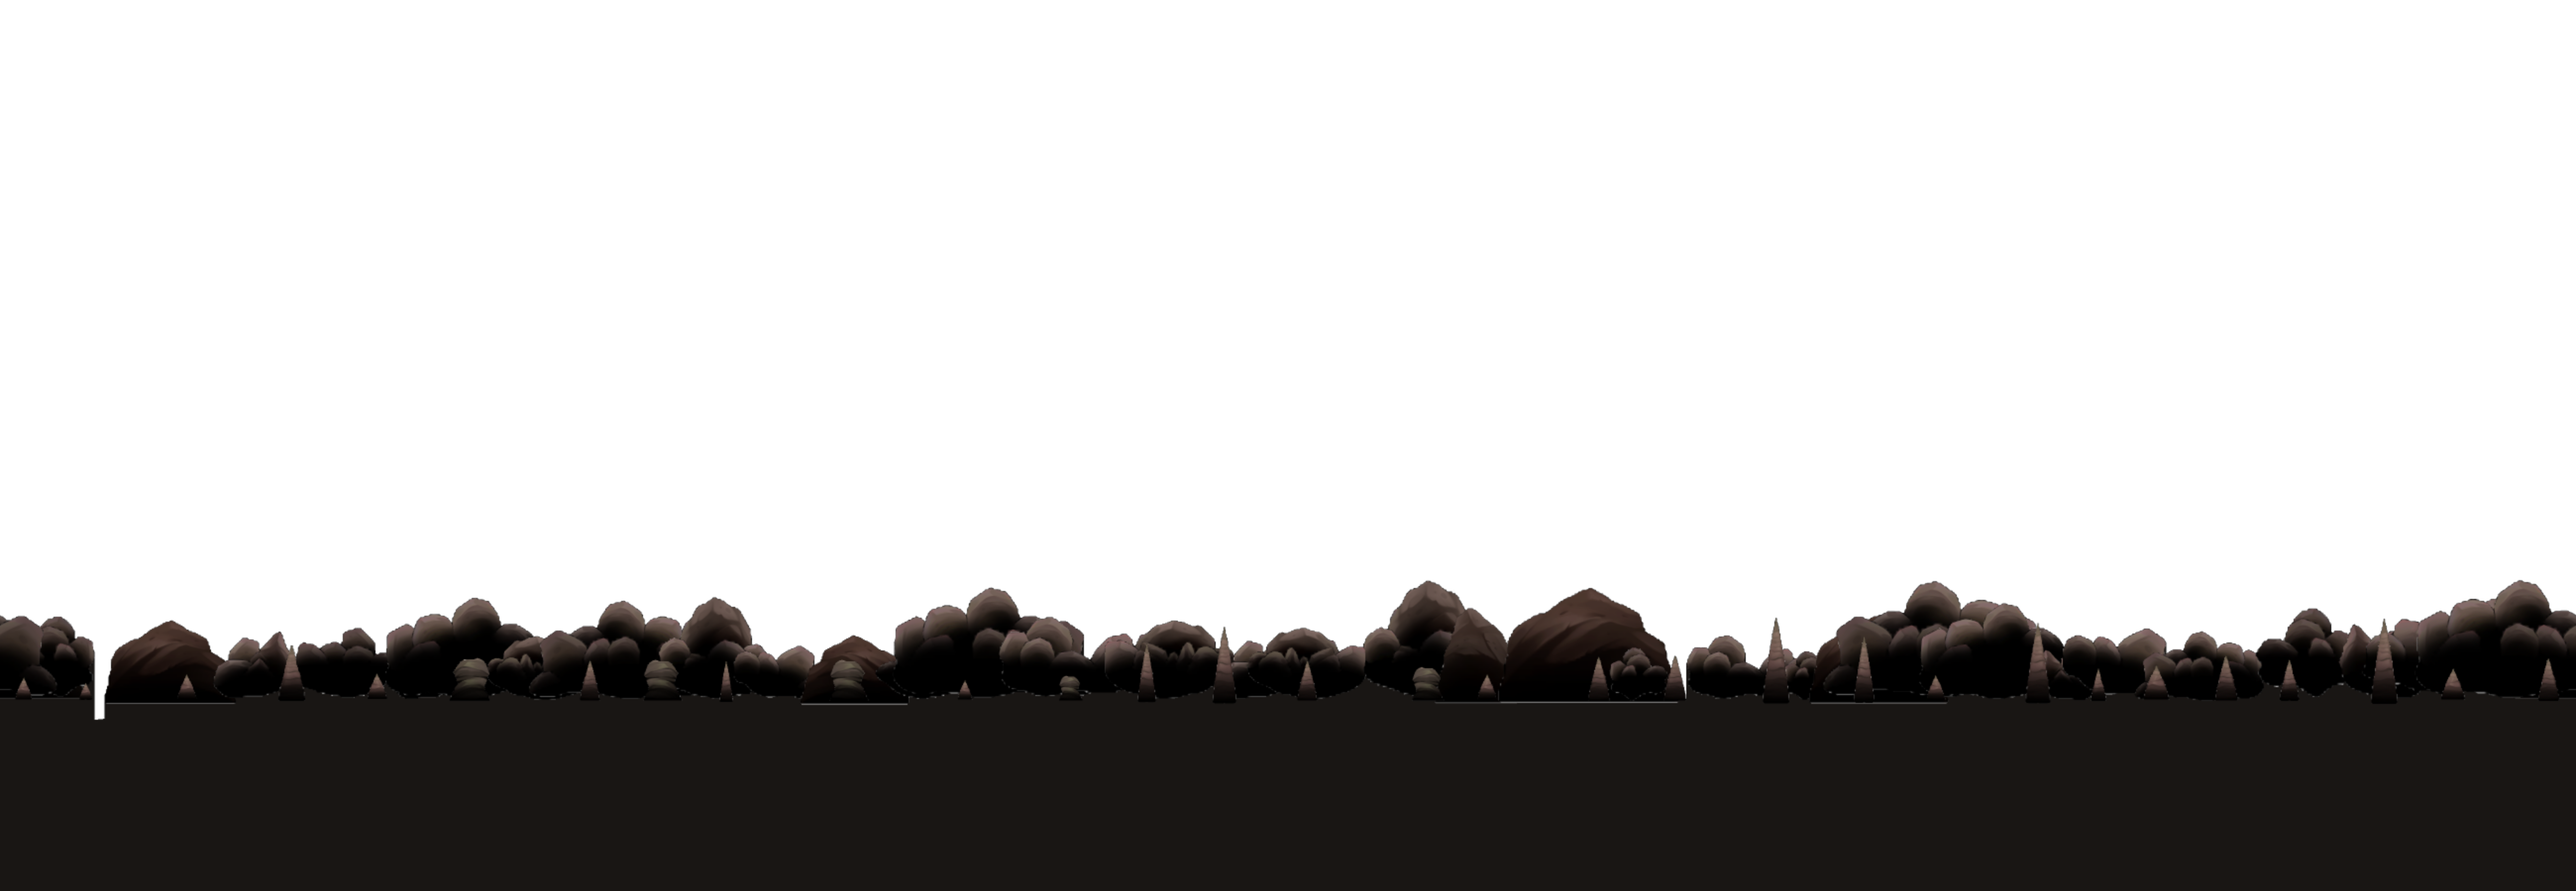
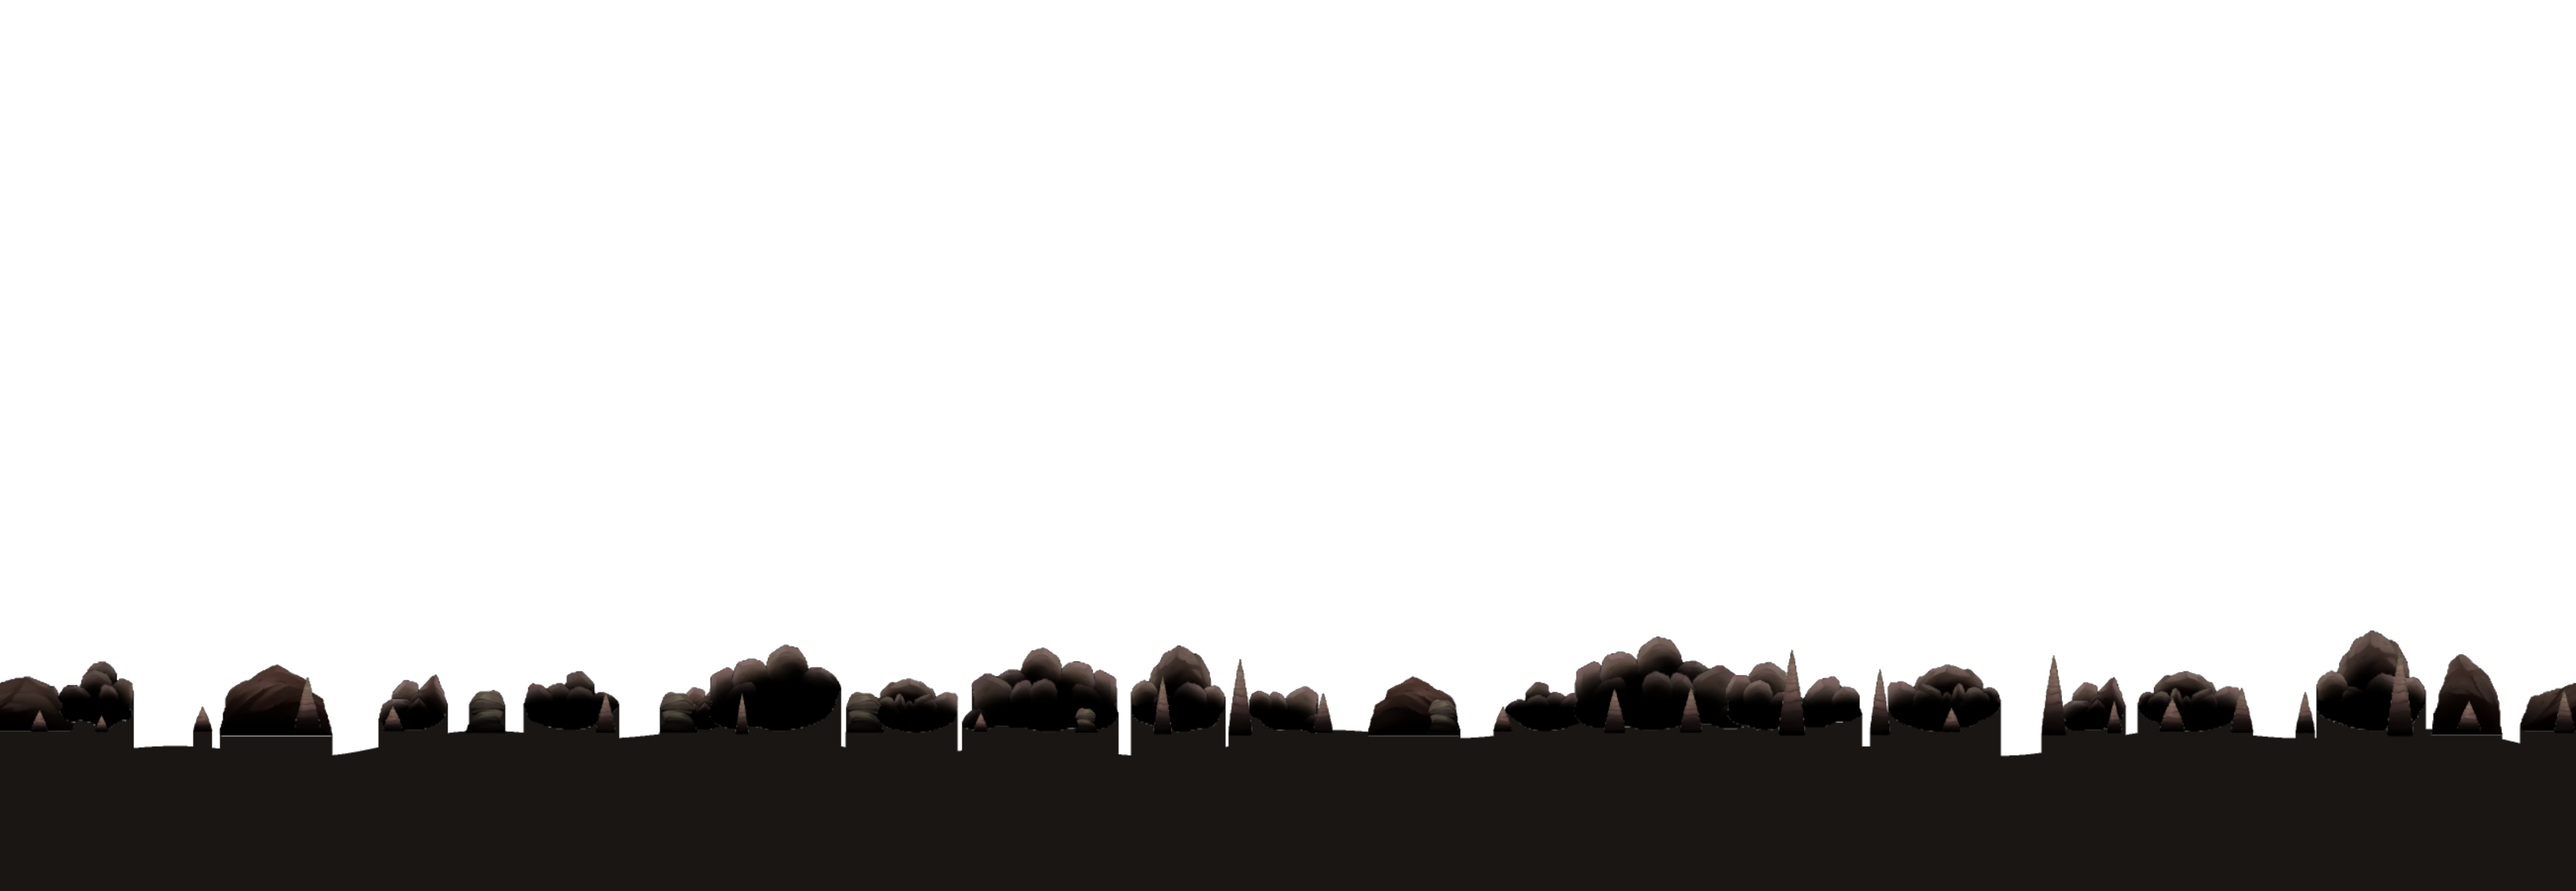
feat(realm1): organize the lower third + sketch the R1 idea sweep
Near-clutter band removed (the floor IS the near layer), mid band sinks to
a mound row behind the cobbles, spike rows sparse on one depth line;
medium_b lifted out of the low zone. SKETCHBOOK: the seven R1 pitches.

Changed region(s): [[0.0, 0.6533, 1.0, 0.8711]]

diff --git a/docs/SKETCHBOOK.md b/docs/SKETCHBOOK.md
@@ -9,6 +9,34 @@ Rules:
 
 ---
 
+## 2026-07-22 — R1 idea sweep ("needs to top realm 2"; golems + 45 jades exist)
+
+Advika asked for ideas that make R1 beat R2's spectacle. Constraint: reuse
+the existing golems + hand-placed jades. Pitched:
+
+1. **THE JADES ARE THE CAVE'S LIGHT.** Every jade taken visibly dims the
+   Hollow — fog core shrinks, glow pockets die one by one — until the last
+   stretch is lantern-only black and the exit door is the only glow. The
+   player CAUSES the darkness by succeeding. Jade motivation solved (the
+   leftover): forging the key steals a world's light. Melancholic,
+   unsettling, very Written-by-Silence.
+2. **Golems ARE the rock.** Camouflaged into the fused bands/boulder piles
+   (our own art pipeline = their disguise); they wake when lantern light or
+   a jade-grab disturbs them. Guardians of the light, not random mobs.
+3. **Lantern-only finale** (her beat F) — already in the A–G spec; now it's
+   the climax of the dimming arc, not just a dark corridor.
+4. **Glow pockets as sanctuaries** — motes cluster there, safe/checkpoint
+   feel; the spaces between get scarier as the cave dims.
+5. **Reactive world** — drips land with faint light-rings, cobbles puff
+   motes underfoot, platform cap stones glow while stood on.
+6. **The chasm ferry in the dark** (her beat C) — R1's answer to the island
+   ride: a slab crossing a black chasm, lantern the only light mid-crossing.
+7. **Far background eyes** that open rarely, HUGE and distant, inside the
+   fused bands (explicitly NOT the failed Sprite+PointLight eye-orbs —
+   different scale, different layer).
+
+Not yet promoted to realms/realm1.md — Advika picks what's canon.
+
 ## 2026-07-18
 
 - **Redo Realm 1 (Advika: "can we redo lvl 1?"):** dropped at the end of a
